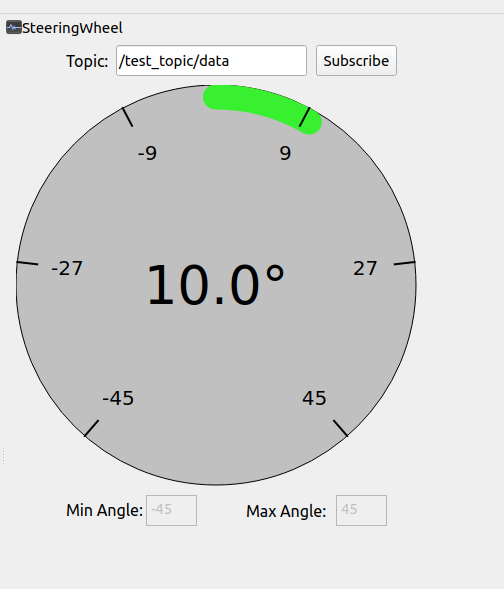
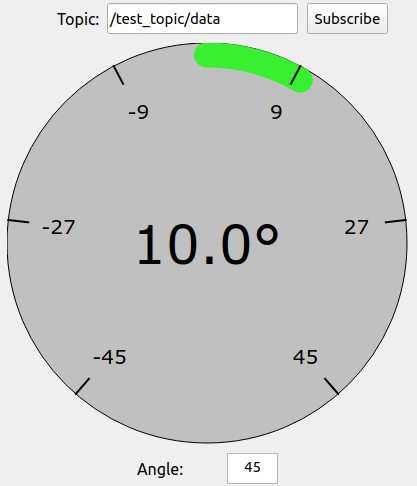
Fixed steering wheel range (#24)

diff --git a/src/rqt_gauges_2/steering_wheel_gauge.py b/src/rqt_gauges_2/steering_wheel_gauge.py
@@ -25,7 +25,6 @@ class SteeringWheelGauge(QWidget):
         self.progress_width = 25
         self.progress_rounded_cap = True
         self.progress_color = 0x39F030
-        self.max_value = 45
         self.circle_max_angle = 135
         self.font_size = 40
         self.scale_font_size = 15
@@ -101,6 +100,21 @@ class SteeringWheelGauge(QWidget):
         self.value = value
         self.repaint()
 
+    def setMaxValue(self, max_value):
+        # Modifies the maximum value of the gauge
+        # Args:
+        #   max: Value to update the maximum value of the gauge.
+        if self.value > max_value:
+            self.value = max_value
+        if max_value <= self.minValue:
+            self.maxValue = self.minValue + 1
+            self.minValue = -self.maxValue + 1
+        else:
+            self.maxValue = max_value
+            self.minValue = -max_value
+
+        self.update()
+
     def draw_background_circle(self):
         painter = QPainter()
         painter.begin(self)
@@ -115,7 +129,7 @@ class SteeringWheelGauge(QWidget):
         width = self.width - self.progress_width
         height = self.height - self.progress_width
         margin = int(self.progress_width / 2)
-        value = int(self.value * self.circle_max_angle / self.max_value)
+        value = int(self.value * self.circle_max_angle / self.maxValue)
 
         # Draw Circle
         self.draw_background_circle()

diff --git a/src/rqt_gauges_2/steering_wheel_widget.py b/src/rqt_gauges_2/steering_wheel_widget.py
@@ -1,7 +1,7 @@
 import os
 
 from ament_index_python.resources import get_resource
-from PyQt5.QtCore import pyqtSlot
+from PyQt5.QtCore import pyqtSlot, Qt
 from PyQt5.QtWidgets import QWidget
 from python_qt_binding import loadUi
 from rosidl_runtime_py.utilities import get_message
@@ -30,7 +30,21 @@ class SteeringWheelWidget(QWidget):
         self._topic_completer.update_topics(self.node)
         self.topic_to_subscribe.setCompleter(self._topic_completer)
 
+        # Objects Properties
+        self.max_value.setAlignment(Qt.AlignCenter)
+
+        self.max_value.setPlaceholderText(str(self.steering_wheel_gauge.maxValue))
+
+        self.max_value.textChanged.connect(self.updateMaxValue)
         self.subscribe_button.pressed.connect(self.updateSubscription)
+
+    @pyqtSlot()
+    def updateMaxValue(self):
+        new_max_value = self.max_value.toPlainText()
+        if new_max_value.isnumeric():
+            self.steering_wheel_gauge.setMaxValue(int(new_max_value))
+        else:
+            self.steering_wheel_gauge.setMaxValue(45)
 
     @pyqtSlot()
     def updateSubscription(self):
